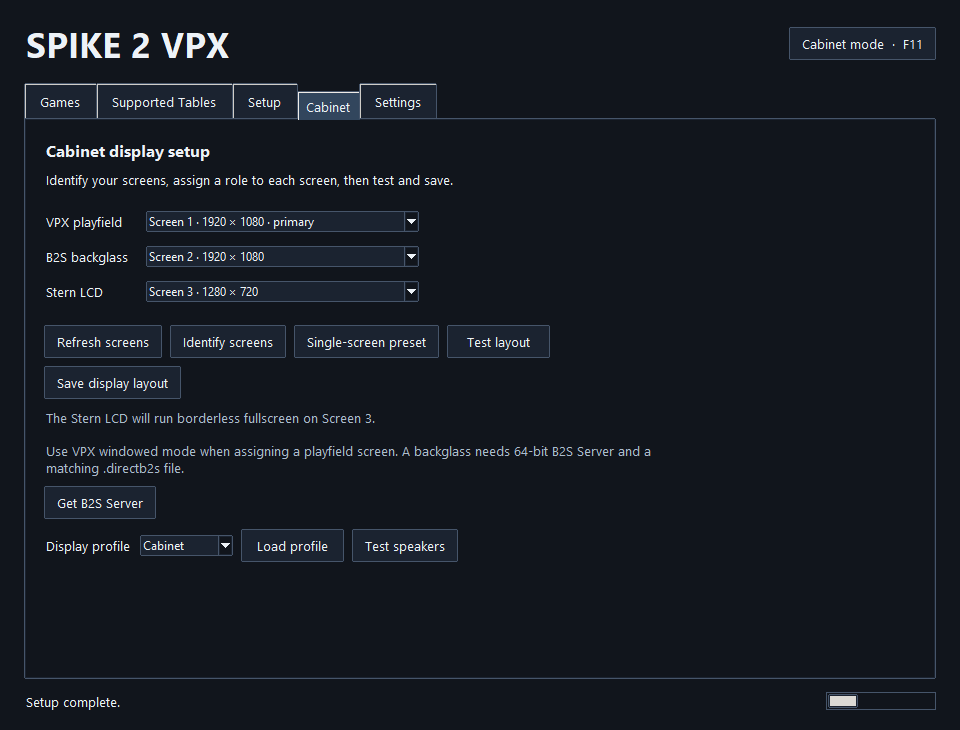
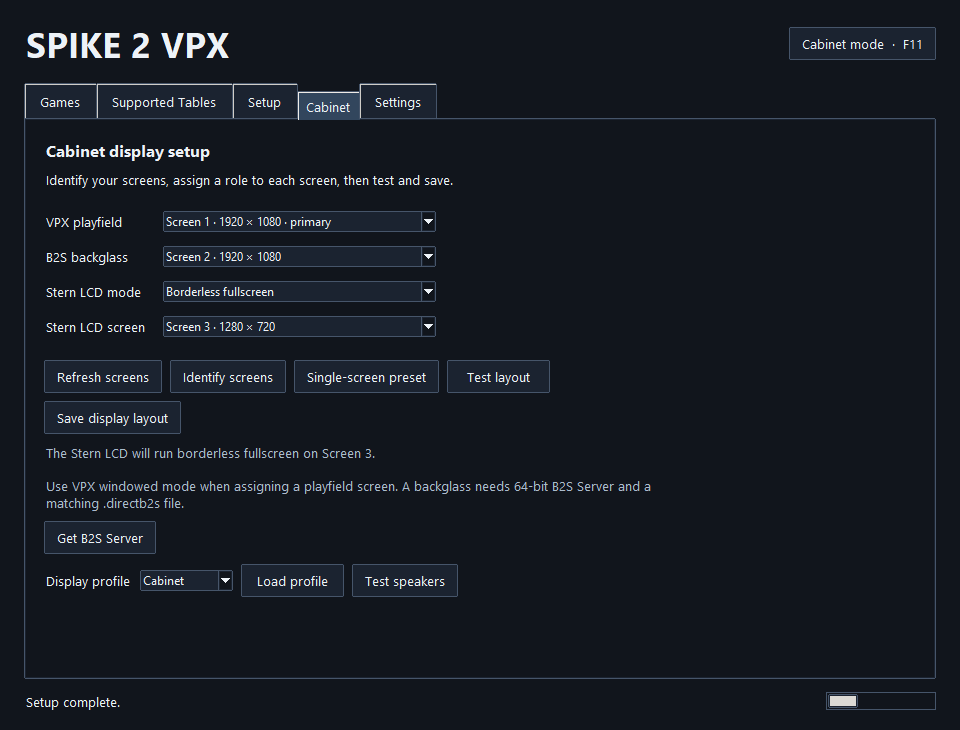
Update Stern LCD mode options and enhance layout configuration in UI

diff --git a/spike2_vpx/cabinet.py b/spike2_vpx/cabinet.py
@@ -17,7 +17,7 @@ ROLES = {
 DEFAULTS = {
     "playfield": "VPX default",
     "backglass": "B2S default",
-    "lcd": "Automatic fullscreen",
+    "lcd": "Automatic (spare screen)",
 }
 WINDOWED_LCD = "windowed"
 DISABLED_B2S = "disabled"

diff --git a/README.md b/README.md
@@ -95,10 +95,12 @@ Open **Cabinet** and select **Identify screens**. Assign the VPX playfield,
 B2S backglass, and Stern LCD to separate screens, or start with the
 **Single-screen preset**. Select **Test layout** to preview the assignments
 before saving. Use VPX windowed mode for app-managed playfield placement.
-The Stern LCD defaults to borderless fullscreen on a spare secondary screen.
-Select a specific screen under **Stern LCD** to choose where it fills the
-display, or select **Windowed** to share a screen with VPX. Windows places
-the fullscreen LCD using the same display coordinates as **Identify screens**.
+Under **Stern LCD mode**, choose **Borderless fullscreen** or **Windowed**,
+then select **Save display layout**. Borderless fullscreen uses the screen
+selected under **Stern LCD screen**. The **Automatic (spare screen)** default
+uses a spare secondary screen when available and opens a window otherwise.
+Windows places the fullscreen LCD using the same display coordinates as
+**Identify screens**.
 When the cabinet and Windows display numbers differ, Cabinet shows both.
 The renderer starts at the selected screen's size for fullscreen play.
 The single-screen preset uses VPX and B2S defaults and a windowed Stern LCD.
